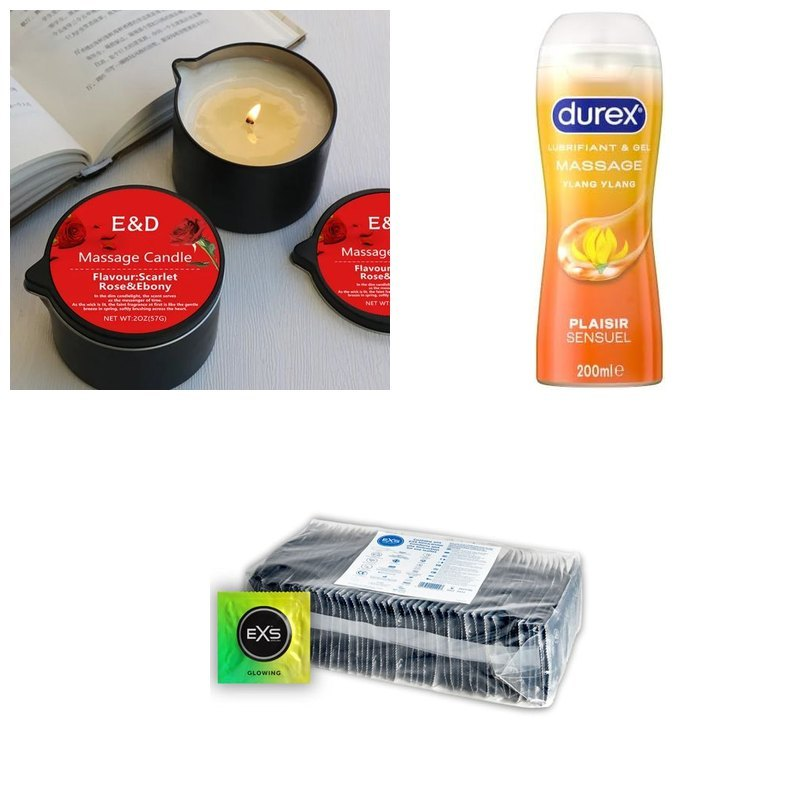
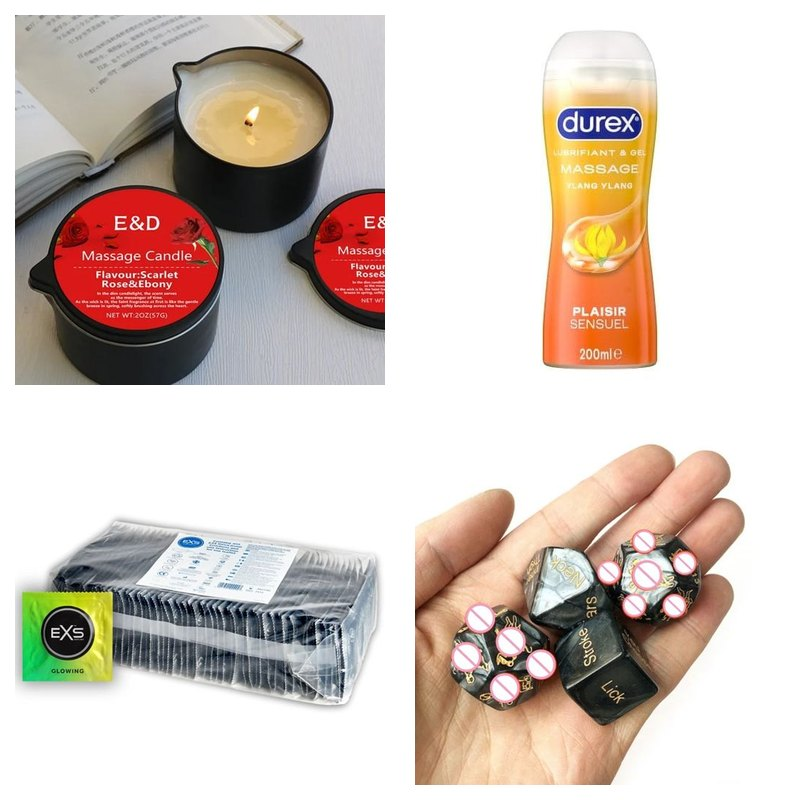
Actualiser le catalogue avec le plan à 650 000 FCFA
- 5 jeux de couple ajoutés dans une collection « Jeux coquins » :
  Osmooz Red, Action ou Vérité Hot, 69 Défis Hot, cartes Kama Sutra,
  dés coquins phosphorescents (proposés en ajout au panier)
- coffret « Soirée à deux » complété des dés : 39 000 F (au lieu de
  41 500 F séparément), nouvelle image
- prix inchangés ; quantités mises à jour dans docs/catalogue.md
- grille des collections : deux rangées de quatre

Claude-Session: https://claude.ai/code/session_01TS6YTXemBDt1AEDfj9KzQQ

diff --git a/assets/js/products.js b/assets/js/products.js
@@ -10,6 +10,7 @@ window.CATEGORIES = [
   { id: "lingerie", label: "Lingerie", short: "Lingerie", hint: "Dentelle, résille, porte-jarretelles", art: "lingerie", hue: 340 },
   { id: "essentiels", label: "Préservatifs & lubrifiants", short: "Protection", hint: "Grandes marques, confort", art: "bottle", hue: 200 },
   { id: "sensualite", label: "Massage & ambiance", short: "Ambiance", hint: "Huiles, bougies, diffuseurs", art: "candle", hue: 30 },
+  { id: "jeux", label: "Jeux coquins", short: "Jeux", hint: "Cartes, défis et dés pour deux", art: "kit", hue: 350 },
   { id: "coffrets", label: "Coffrets", short: "Coffrets", hint: "Nos duos et trios à prix doux", art: "kit", hue: 345 }
 ];
 
@@ -162,11 +163,33 @@ window.PRODUCTS = [
     desc: "Le grand format, pour une ambiance parfumée qui dure longtemps. Élégant dans une chambre comme dans un salon.",
     points: ["200 ml", "Longue durée", "Sans flamme"] },
 
+  // Jeux de couple (en français)
+  { id: "J01", cat: "jeux", name: "Jeu Osmooz Red pour Couples", price: 30000, art: "kit", hue: 350, badge: "Best-seller",
+    tags: ["couple", "cadeau", "inter", "seduire"],
+    desc: "Le jeu de cartes JUDUKU Osmooz, version Red : des questions et des défis pour se (re)découvrir en profondeur. En français.",
+    points: ["Jeu de cartes pour 2", "En français", "Pour se redécouvrir"] },
+  { id: "J02", cat: "jeux", name: "Action ou Vérité Hot & Sexy", price: 19500, art: "kit", hue: 280,
+    tags: ["couple", "cadeau", "debut", "seduire"],
+    desc: "Le grand classique, version coquine : à chaque tour, une question indiscrète ou un défi à relever. En français.",
+    points: ["Action ou vérité", "Version hot", "En français"] },
+  { id: "J03", cat: "jeux", name: "69 Défis Hot pour Couple", price: 15000, art: "kit", hue: 0,
+    tags: ["couple", "cadeau", "inter", "seduire", "intense"],
+    desc: "69 défis pour pimenter votre vie à deux, à piocher au hasard ou à choisir ensemble. En français.",
+    points: ["69 défis", "Pour tous les couples", "En français"] },
+  { id: "J04", cat: "jeux", name: "Cartes Kama Sutra Illustrées", price: 12500, art: "kit", hue: 330,
+    tags: ["couple", "cadeau", "inter", "seduire"],
+    desc: "Un jeu de 54 cartes illustrées, une position par carte, sans texte. Tirez une carte… et laissez-vous guider.",
+    points: ["54 positions", "Illustrées, sans texte", "Format jeu de cartes"] },
+  { id: "J05", cat: "jeux", name: "Dés Coquins Phosphorescents ×2", price: 6000, art: "kit", hue: 120, badge: "Idéal pour débuter",
+    tags: ["couple", "cadeau", "debut", "seduire"],
+    desc: "Lancez les deux dés : l'un dit quoi, l'autre dit où. Ils brillent dans le noir, pour jouer lumières éteintes.",
+    points: ["Lot de 2 dés", "Phosphorescents", "Petit prix, grand effet"] },
+
   // Coffrets (prix barré = somme des produits achetés séparément)
-  { id: "PK1", cat: "coffrets", name: "Coffret Soirée à Deux", price: 33000, old: 35500, art: "kit", hue: 345, badge: "Malin",
+  { id: "PK1", cat: "coffrets", name: "Coffret Soirée à Deux", price: 39000, old: 41500, art: "kit", hue: 345, badge: "Malin",
     tags: ["couple", "cadeau", "seduire", "doux"],
-    desc: "La bougie de massage, le gel Durex 2-en-1 et des préservatifs fluorescents : tout ce qu'il faut pour une soirée à deux réussie, du massage jusqu'au bout de la nuit.",
-    points: ["Bougie de massage", "Gel de massage Durex 2-en-1", "Préservatifs fluorescents ×3"] },
+    desc: "La bougie de massage, le gel Durex 2-en-1, des préservatifs fluorescents et des dés coquins : tout ce qu'il faut pour une soirée à deux réussie, du massage jusqu'au bout de la nuit.",
+    points: ["Bougie de massage + gel Durex 2-en-1", "Préservatifs fluorescents ×3", "Dés coquins phosphorescents ×2"] },
   { id: "PK2", cat: "coffrets", name: "Coffret Découverte", price: 31000, old: 39000, art: "kit", hue: 330, badge: "Malin",
     tags: ["moi", "cadeau", "debut", "doux", "intense"],
     desc: "Le stimulateur Rose à succion, un lubrifiant INTIMY et un diffuseur parfumé : le trio idéal pour une première découverte, dans une ambiance soignée.",

diff --git a/assets/js/app.js b/assets/js/app.js
@@ -273,7 +273,7 @@
   }
 
   /* « Souvent ajoutés ensemble » */
-  var PAIRS = { elle: ["G01", "P02", "L01"], godes: ["G01", "P01", "D03"], couple: ["P03", "H02", "B01"], lingerie: ["B01", "V09", "L08"], essentiels: ["G01", "P03", "H02"], sensualite: ["B01", "H02", "S01"], coffrets: ["P03", "G01", "L07"] };
+  var PAIRS = { elle: ["G01", "P02", "L01"], godes: ["G01", "P01", "D03"], couple: ["J05", "P03", "H02"], lingerie: ["B01", "V09", "L08"], essentiels: ["G01", "P03", "H02"], sensualite: ["B01", "H02", "S01"], coffrets: ["J05", "G01", "L07"], jeux: ["J05", "P03", "B01"] };
   function crossSellHTML(p) {
     var ids = (PAIRS[p.cat] || []).filter(function (id) { return id !== p.id && byId[id]; }).slice(0, 3);
     if (!ids.length) return "";
@@ -338,7 +338,7 @@
       '<div class="grand"><span>Total</span><span>' + fcfa(t.total) + "</span></div></div>" +
       '<button class="btn btn--primary btn--full" id="to-checkout">Commander, payer à la livraison →</button>' +
       '<p class="reassure">📦 Colis neutre · 🔒 Aucun compte · 💵 Rien à payer en ligne</p>';
-    var sugg = ["P03", "G01", "P01", "V10"].filter(function (id) { return !cart[id]; }).slice(0, 2);
+    var sugg = ["J05", "P03", "G01", "P01"].filter(function (id) { return !cart[id]; }).slice(0, 2);
     if (sugg.length) {
       $("#cart-items").insertAdjacentHTML("beforeend", '<div class="xsell xsell--cart"><p class="xsell__title">Pensez-y</p><div class="xsell__list">' + sugg.map(function (id) {
         var q = byId[id];

diff --git a/index.html b/index.html
@@ -5,7 +5,7 @@
   <meta name="viewport" content="width=device-width, initial-scale=1">
   <!-- Titre volontairement neutre : rien de compromettant dans l'onglet ni l'historique -->
   <title>Daki Oriente — Bien-être intime</title>
-  <meta name="description" content="Daki Oriente, la boutique intime en ligne de Libreville : vibromasseurs, godes, lingerie, préservatifs, lubrifiants, huiles de massage et bougies. Livraison en colis 100 % neutre, paiement à la livraison.">
+  <meta name="description" content="Daki Oriente, la boutique intime en ligne de Libreville : vibromasseurs, godes, lingerie, préservatifs, lubrifiants, huiles de massage, bougies et jeux coquins. Livraison en colis 100 % neutre, paiement à la livraison.">
   <meta property="og:title" content="Daki Oriente — Bien-être intime">
   <meta property="og:description" content="Lingerie, jouets et essentiels intimes. Colis 100 % neutre, paiement à la livraison à Libreville.">
   <meta property="og:type" content="website">
@@ -125,7 +125,7 @@
             <span class="label">Collections</span>
             <h2>De quoi avez-vous <mark>envie</mark>&nbsp;?</h2>
           </div>
-          <p class="muted section__aside">Sept univers, une seule boutique. Ouvrez celui qui vous parle.</p>
+          <p class="muted section__aside">Huit univers, une seule boutique. Ouvrez celui qui vous parle.</p>
         </div>
         <div class="collections" id="collections-grid"></div>
       </div>

diff --git a/assets/css/style.css b/assets/css/style.css
@@ -841,3 +841,14 @@ body.locked .toast.show { transform: translate(-50%, 0); }
 .coll .coll__txt { max-width: 100%; }
 .coll, .coll:nth-child(-n+2), .coll:nth-child(-n+3) { min-height: 330px; }
 .coll:nth-child(-n+3) h3 { font-size: 1.6rem; }
+
+/* Huit collections : deux rangées de quatre */
+.coll, .coll:nth-child(-n+2), .coll:nth-child(-n+3) { grid-column: span 3; min-height: 320px; }
+.coll:nth-child(-n+3) h3 { font-size: 1.25rem; }
+.coll:nth-child(8) { background: #f0eefb; }
+@media (max-width: 1100px) {
+  .coll, .coll:nth-child(-n+2), .coll:nth-child(-n+3), .coll:nth-child(7) { grid-column: span 6; }
+}
+@media (max-width: 560px) {
+  .coll, .coll:nth-child(-n+2), .coll:nth-child(-n+3), .coll:nth-child(n+3), .coll:nth-child(7) { grid-column: auto; }
+}

diff --git a/guide.html b/guide.html
@@ -195,7 +195,7 @@
             <li><strong>Choisissez ensemble :</strong> parcourir la boutique à deux est souvent le début du jeu.</li>
             <li><strong>Acceptez un « pas maintenant ».</strong> Une envie qui n'est pas partagée aujourd'hui peut l'être plus tard.</li>
           </ul>
-          <div class="g-products" data-products="V07,V10,PK1"></div>
+          <div class="g-products" data-products="J01,J03,V10"></div>
         </article>
 
         <article class="g-art" id="consentement">

diff --git a/docs/catalogue.md b/docs/catalogue.md
@@ -1,6 +1,6 @@
 # Catalogue Daki Oriente
 
-Source : plan de commande « boutique intime — 500 000 FCFA » du 30/10/2026 (vente à Libreville,
+Source : plan de commande « boutique intime — 650 000 FCFA » du 30/10/2026 (vente à Libreville,
 achat AliExpress / Amazon via transitaire). Prix de vente repris tels quels.
 Coût unitaire = achat + fret + taxes d'importation estimées (voir le plan).
 
@@ -30,7 +30,7 @@ Coût unitaire = achat + fret + taxes d'importation estimées (voir le plan).
 | L02 | Ensemble Brodé Push-up | 16 500 F | 7 104 F | 1 | https://fr.aliexpress.com/item/1005007317225540.html |
 | L03 | Ensemble 5 Pièces Porte-jarretelles | 26 000 F | 12 225 F | 1 | https://fr.aliexpress.com/item/3256808102634327.html |
 | L04 | Soutien-gorge & Porte-jarretelles | 23 000 F | 11 437 F | 1 | https://fr.aliexpress.com/item/3256808977081445.html |
-| L05 | Combinaison Résille Intégrale | 11 500 F | 4 887 F | 1 | https://fr.aliexpress.com/item/3256809358675412.html |
+| L05 | Combinaison Résille Intégrale | 11 500 F | 4 887 F | 2 | https://fr.aliexpress.com/item/3256809358675412.html |
 | L06 | Body Résille Manches Longues | 13 000 F | 4 494 F | 1 | https://fr.aliexpress.com/item/3256806177522838.html |
 | L07 | Nuisette Dentelle 2 Pièces | 17 500 F | 8 939 F | 1 | https://fr.aliexpress.com/item/3256810252976023.html |
 | L08 | Porte-jarretelles & Bas Dentelle | 16 500 F | 8 699 F | 2 | https://fr.aliexpress.com/item/3256809228337744.html |
@@ -39,8 +39,8 @@ Coût unitaire = achat + fret + taxes d'importation estimées (voir le plan).
 
 | Réf. | Nom sur le site | Prix de vente | Coût unitaire | Qté | Où acheter |
 |---|---|---|---|---|---|
-| P01 | Préservatifs INTIMY Classic ×14 | 9 000 F | 5 009 F | 1 | https://www.amazon.fr/dp/B082VVRV37 |
-| P02 | Durex Feeling Extra ×20 | 15 000 F | 9 282 F | 1 | https://www.amazon.fr/dp/B0BQRFZR94 |
+| P01 | Préservatifs INTIMY Classic ×14 | 9 000 F | 5 009 F | 3 | https://www.amazon.fr/dp/B082VVRV37 |
+| P02 | Durex Feeling Extra ×20 | 15 000 F | 9 282 F | 2 | https://www.amazon.fr/dp/B0BQRFZR94 |
 | P03 | Préservatifs Fluorescents EXS Glow ×3 | 3 000 F | 1 741 F | 33 | https://condoms.uk/products/exs-glow-in-the-dark-condoms (lot de 100 à reconditionner) |
 | G01 | Lubrifiant INTIMY Classic 150 ml | 11 000 F | 7 747 F | 2 | https://www.amazon.fr/dp/B00APPGBYO |
 | G02 | Lubrifiant à Base d'Eau 200 ml | 11 000 F | 6 561 F | 1 | https://fr.aliexpress.com/item/3256808955182818.html |
@@ -53,16 +53,26 @@ Coût unitaire = achat + fret + taxes d'importation estimées (voir le plan).
 | H02 | Gel de Massage Durex 2-en-1 Ylang-Ylang | 15 000 F | 10 005 F | 2 | https://www.amazon.fr/dp/B007EE2GRK |
 | H03 | Huile Corps Relaxante Vanille | 13 500 F | 7 043 F | 1 | https://fr.aliexpress.com/item/3256809434387691.html |
 | B01 | Bougie de Massage | 17 500 F | 9 513 F | 1 | https://fr.aliexpress.com/item/1005008375638086.html |
-| B02 | Bougie Parfumée Cire de Soja | 12 500 F | 7 434 F | 1 | https://fr.aliexpress.com/item/3256808372813326.html |
+| B02 | Bougie Parfumée Cire de Soja | 12 500 F | 7 434 F | 2 | https://fr.aliexpress.com/item/3256808372813326.html |
 | B03 | Bougie Aromathérapie en Verre | 15 000 F | 8 617 F | 1 | https://fr.aliexpress.com/item/3256807958475935.html |
-| S01 | Diffuseur à Bâtonnets 50 ml | 10 500 F | 5 052 F | 1 | https://fr.aliexpress.com/item/3256808243588807.html |
+| S01 | Diffuseur à Bâtonnets 50 ml | 10 500 F | 5 052 F | 2 | https://fr.aliexpress.com/item/3256808243588807.html |
 | S02 | Diffuseur à Bâtonnets 200 ml | 18 000 F | 10 281 F | 1 | https://fr.aliexpress.com/item/3256809956287949.html |
+
+## Jeux de couple (en français)
+
+| Réf. | Nom sur le site | Prix de vente | Coût unitaire | Qté | Où acheter |
+|---|---|---|---|---|---|
+| J01 | Jeu Osmooz Red pour Couples | 30 000 F | 17 237 F | 1 | https://www.amazon.fr/dp/B0BF6192CK |
+| J02 | Action ou Vérité Hot & Sexy | 19 500 F | 10 483 F | 2 | https://www.amazon.fr/dp/B08J1Y6Y7C |
+| J03 | 69 Défis Hot pour Couple | 15 000 F | 8 010 F | 2 | https://www.amazon.fr/dp/B0CK3MYNN9 |
+| J04 | Cartes Kama Sutra Illustrées | 12 500 F | 6 415 F | 1 | https://www.amazon.fr/dp/B0072JKRPU |
+| J05 | Dés Coquins Phosphorescents ×2 | 6 000 F | 2 346 F | 3 | https://fr.aliexpress.com/item/3256805791724733.html |
 
 ## Coffrets (recommandés dans le plan)
 
 | Réf. | Nom sur le site | Contenu | Prix du coffret | Prix séparés |
 |---|---|---|---|---|
-| PK1 | Coffret Soirée à Deux | B01 + H02 + P03 | 33 000 F | 35 500 F |
+| PK1 | Coffret Soirée à Deux | B01 + H02 + P03 + J05 | 39 000 F | 41 500 F |
 | PK2 | Coffret Découverte | V01 + G01 + S01 | 31 000 F | 39 000 F |
 
 ## Photos

diff --git a/README.md b/README.md
@@ -6,7 +6,7 @@ Boutique statique au thème clair (HTML/CSS/JS, aucune dépendance). Ouvrez `ind
 - Vérification d'âge 18+ à l'entrée
 - Bouton « Sortie rapide » + double appui sur Échap pour quitter le site instantanément
 - Titre d'onglet neutre, `noindex`, panier stocké uniquement sur l'appareil
-- Catalogue du plan de commande : 34 produits en 6 collections + 2 coffrets (voir `docs/catalogue.md`), recherche, tri
+- Catalogue du plan de commande : 39 produits en 7 collections + 2 coffrets (voir `docs/catalogue.md`), recherche, tri
 - Fiche produit, panier avec barre « livraison offerte », commande sans compte
 - Commande envoyée en récapitulatif WhatsApp, paiement à la livraison (espèces, Airtel Money, Moov Money)
 - Suivi de commande sur sa propre page (`suivi.html`) : créneau de livraison, étapes, position du livreur, historique, consignes de livraison (voir `docs/SUIVI.md`)
